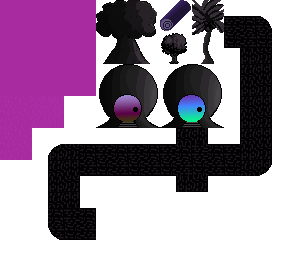
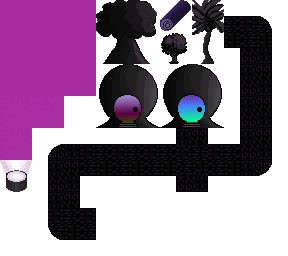
add spotlight to tilesheet and add new map

Changed region(s): [[0.0, 0.625, 0.125, 0.75]]

diff --git a/dream-front/src/game/GameScene.js b/dream-front/src/game/GameScene.js
@@ -28,7 +28,7 @@ class GameScene extends Phaser.Scene {
 
     preload(){ 
         this.load.image('tiles', './assets/maps/pinktilesheet.png');
-        this.load.tilemapTiledJSON('map', './assets/maps/1stworkingmap.json');
+        this.load.tilemapTiledJSON('map', './assets/maps/largermap.json');
         this.load.spritesheet('player', './assets/images/catspritesheet.png', { frameWidth: 35, frameHeight: 32 });
         this.load.image('magic', './assets/images/magicb.png')
         this.load.spritesheet('enemy', './assets/images/enemyspritesheet.png', { frameWidth: 32, frameHeight: 32 });

diff --git a/dream-front/assets/maps/pinktilesheet.tsx b/dream-front/assets/maps/pinktilesheet.tsx
@@ -1,4 +1,4 @@
 <?xml version="1.0" encoding="UTF-8"?>
 <tileset version="1.2" tiledversion="1.3.1" name="pinktilesheet" tilewidth="32" tileheight="32" tilecount="72" columns="9">
- <image source="../../../../../../../../Desktop/images/pinktilesheet.png" width="288" height="256"/>
+ <image source="../../../../../../Desktop/images/pinktilesheet.png" width="288" height="256"/>
 </tileset>
